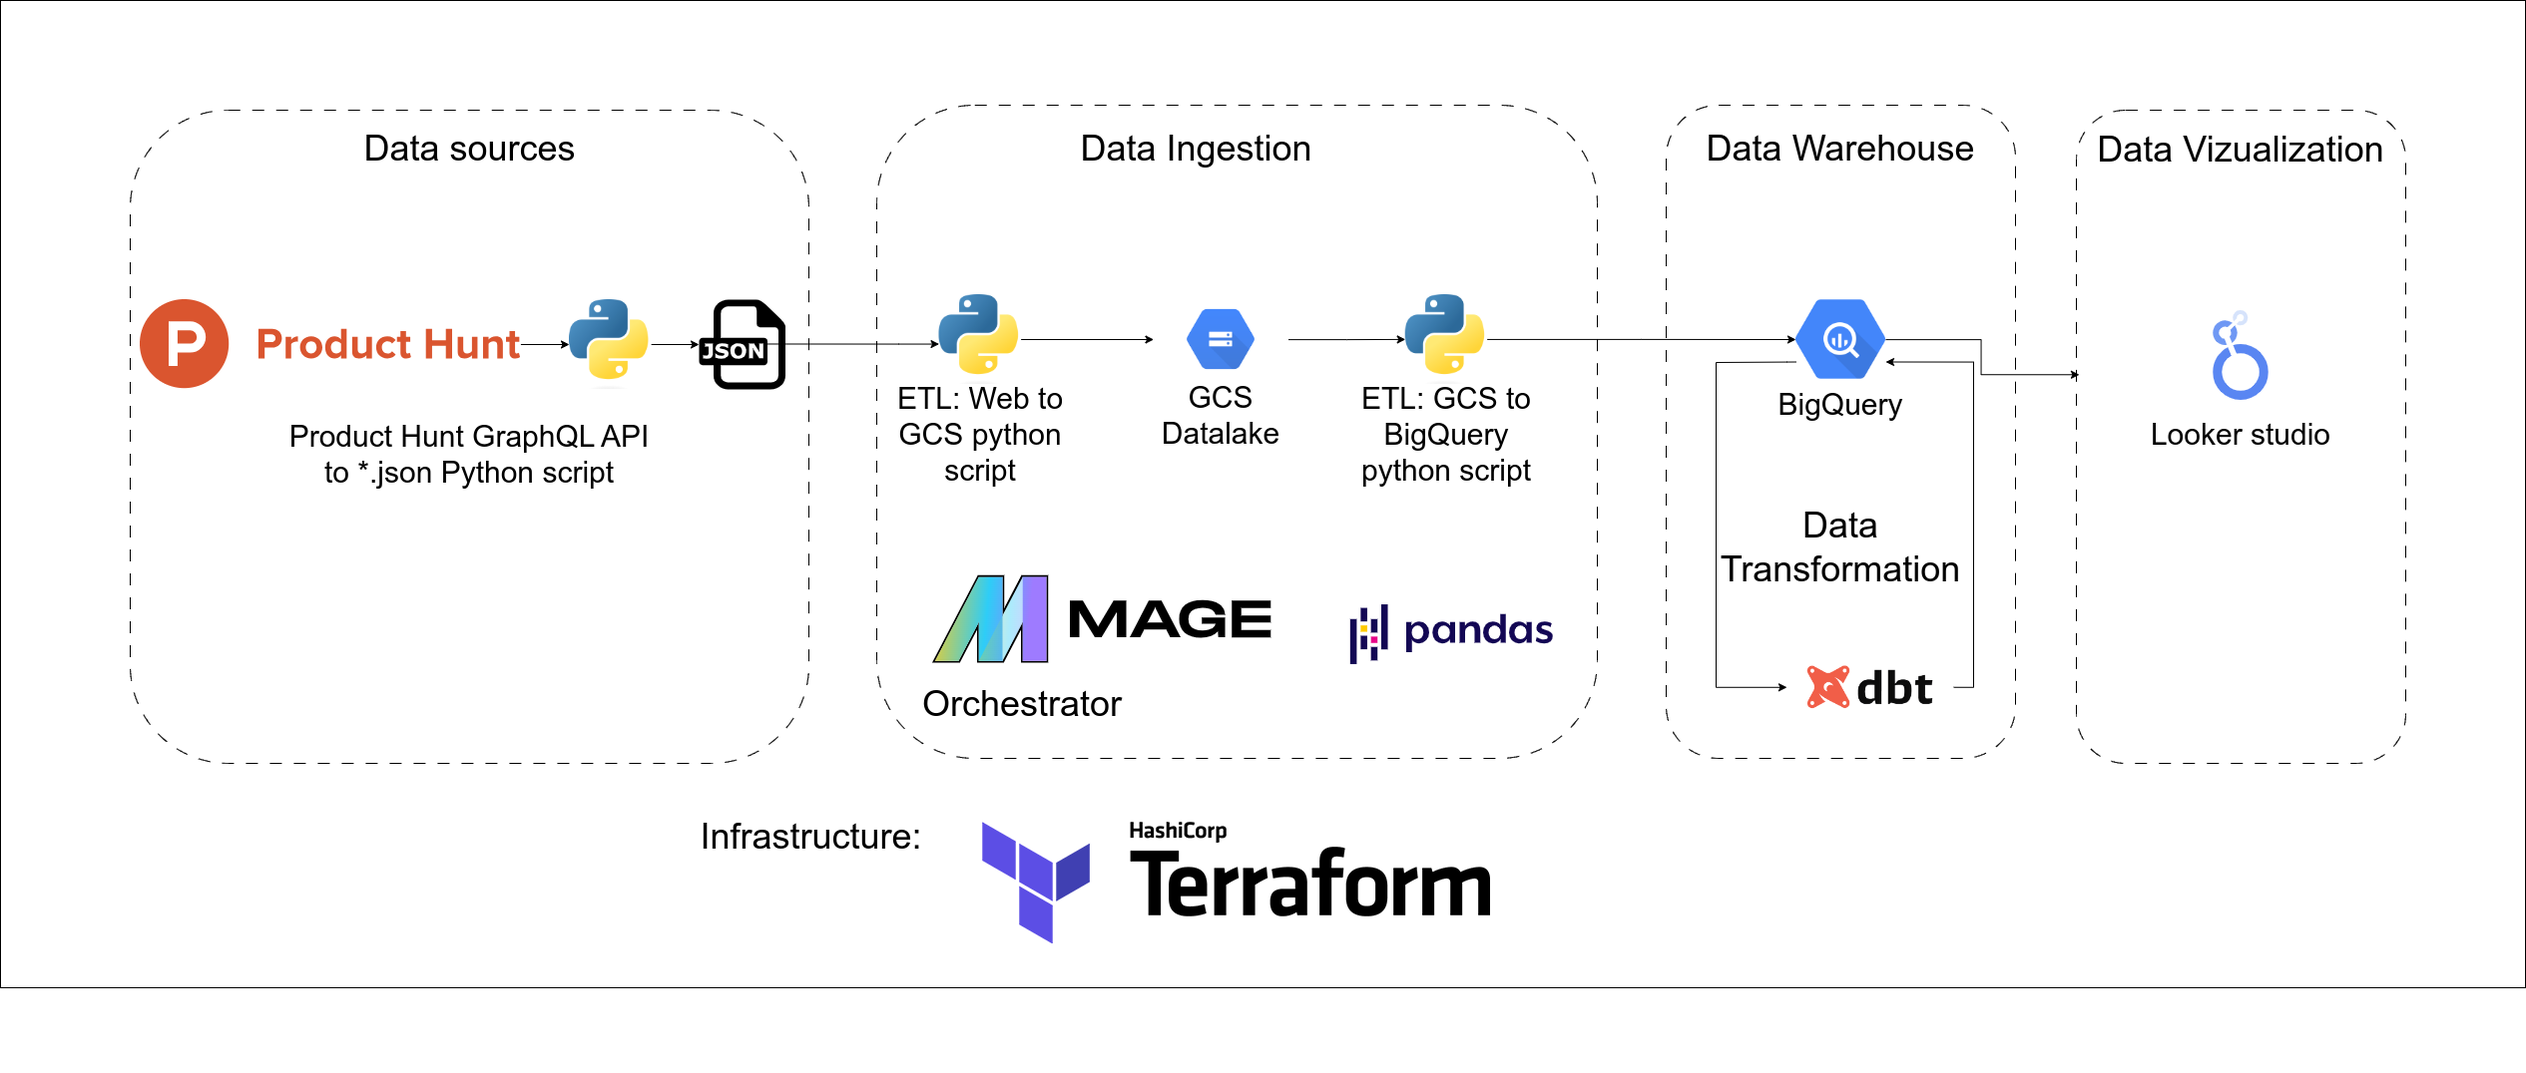
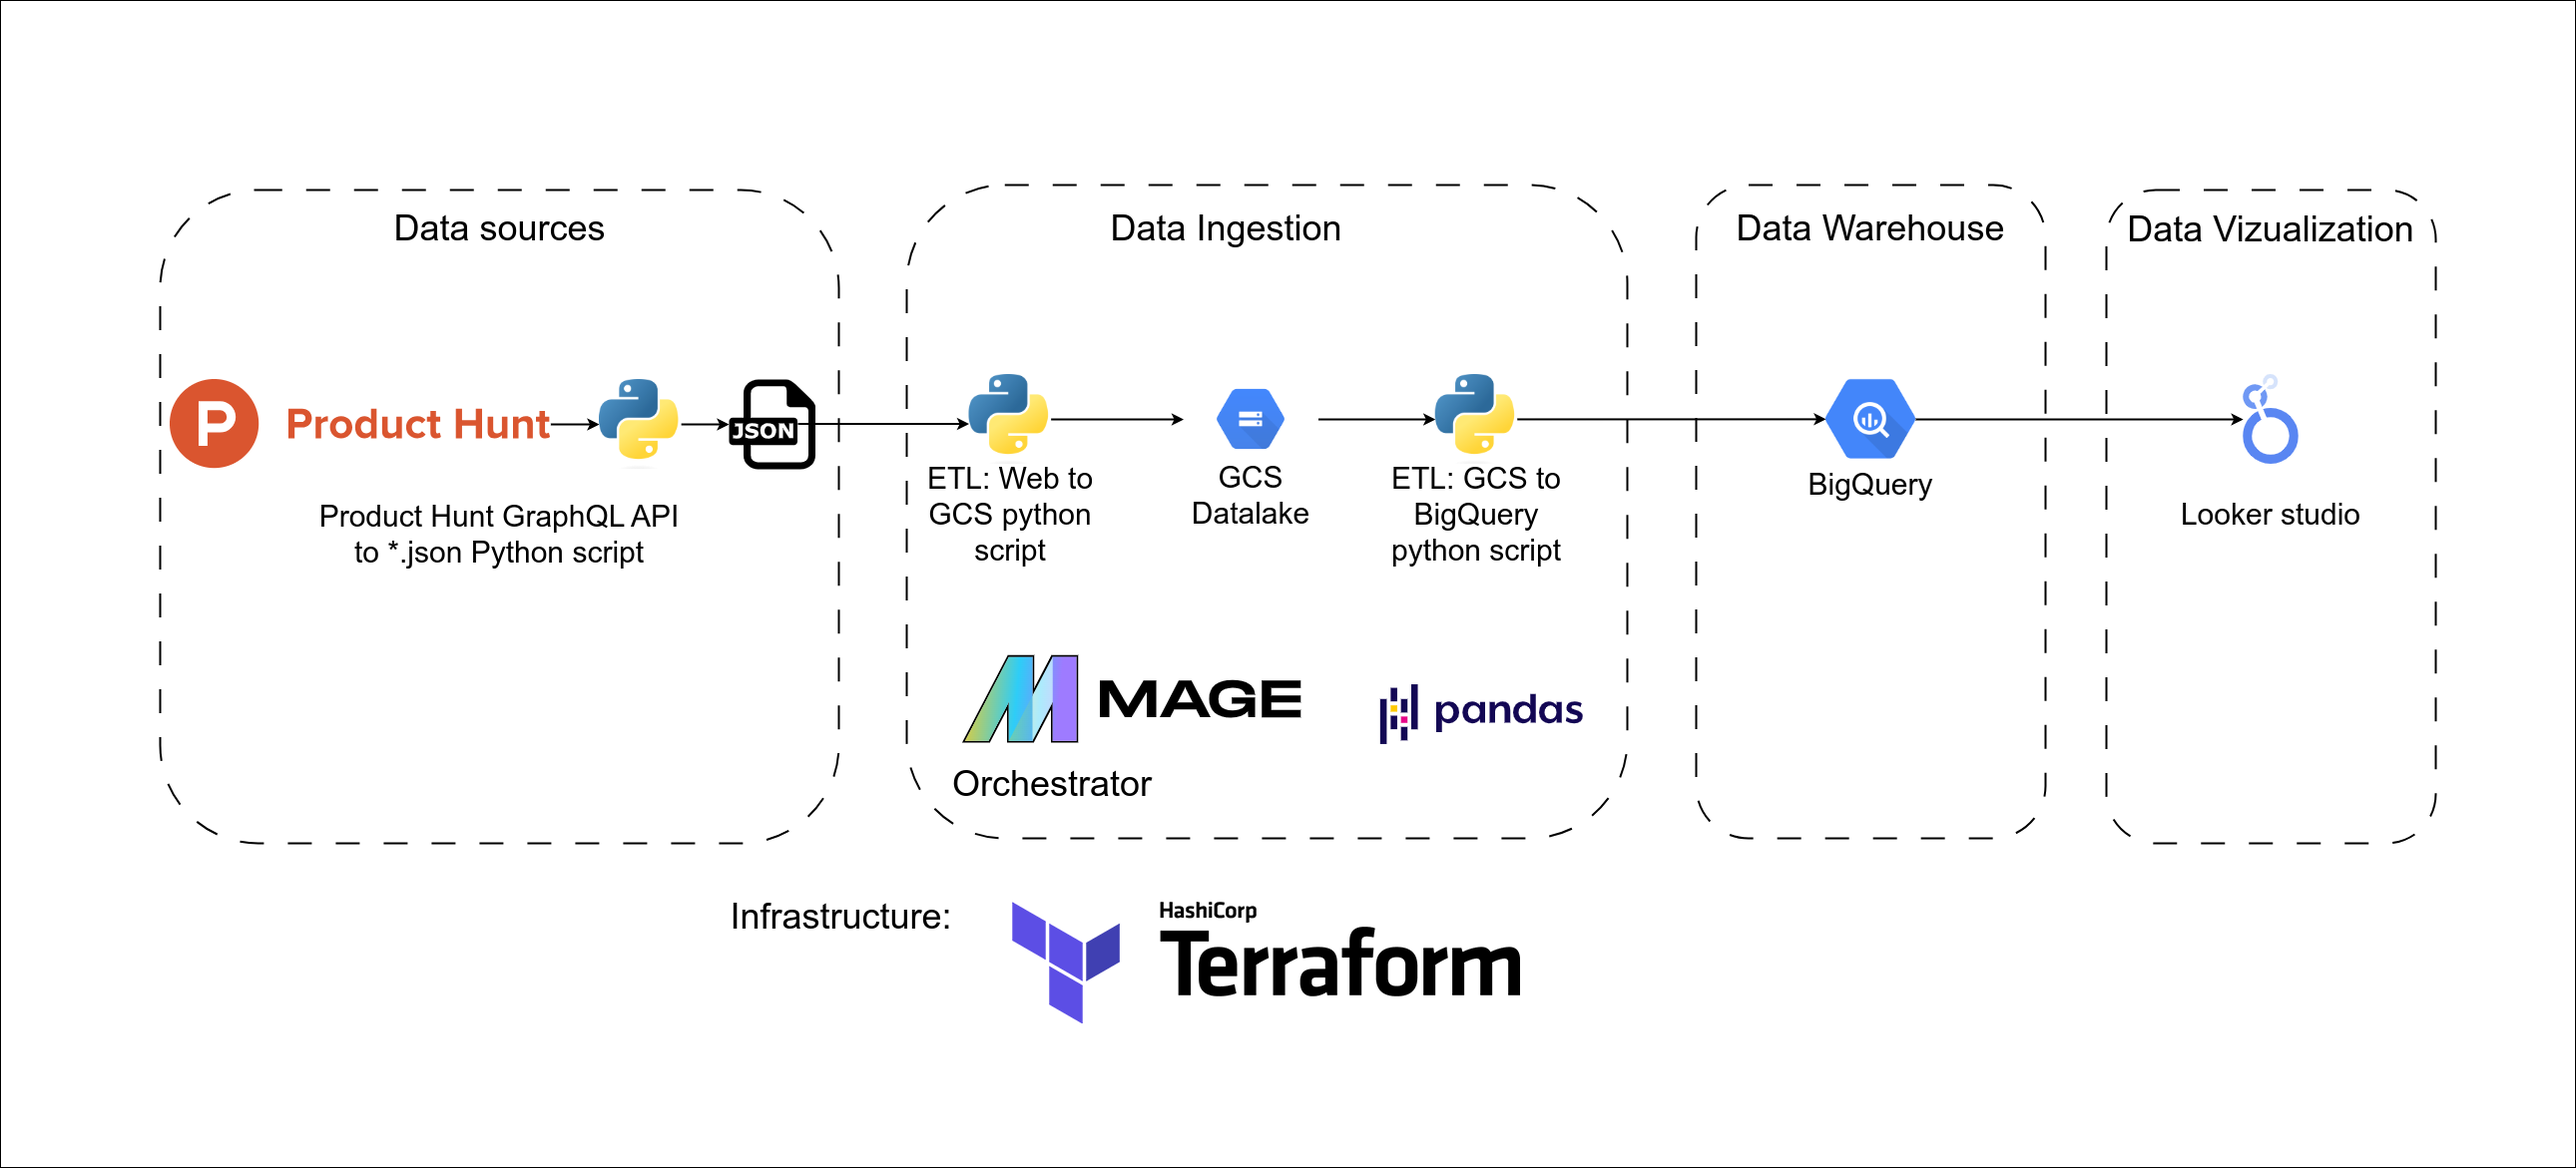
README: edit

diff --git a/README.md b/README.md
@@ -1,15 +1,52 @@
-# Product Hunt Analysis - Data Engineering Capstone Project
+# ProductHunt Insights: End-to-End Data Engineering Capstone Project
+***
 
-_This is my final DE project for the [Data Engineering Zoomcamp 2024](https://github.com/DataTalksClub/data-engineering-zoomcamp) by [DataTalks.Club](https://datatalks.club/)_
+![pipeline.png](images/pipeline.png)
 
-## Objective
-Developing an end-to-end pipeline to perform advanced analytics, to handle the ingestion, processing and data analysis, with the purpose of generating useful dashboard with daily data updates from the most popular startups launch platform producthunt.com.
+This project, developed for the [Data Engineering Zoomcamp 2024](https://github.com/DataTalksClub/data-engineering-zoomcamp) by [DataTalks.Club](https://datatalks.club/), involves building an end-to-end data pipeline to extract, transform, and visualize ProductHunt data. The goal is to enable advanced analytics on startup launches, providing insights on trends, competitors, and optimal launch times. The pipeline includes data ingestion from the ProductHunt API, storage in Google Cloud Storage, processing with BigQuery, transformations via dbt, and visualization using Looker Studio.
 
-## Problem statement
-  If you are interested in launching a startup, you need to know competitors, current trends, and some ideas. Also, you need to know the best day of the week and the best hours to post your project.
+***
+## Technologies Used
+- **Infrastructure as Code (IaC):** Terraform
+- **Workflow Orchestration:** Mage
+- **Data Lake:** Google Cloud Storage (GCS)
+- **Data Warehouse (DWH):** BigQuery
+- **Transformations:** Pandas
+- **Dashboard:** Google Data Studio / Looker Studio
 
-ProductHunt has an archive section of projects posted in the past and some filters, but they are really simple. I hope my project will help you to launch a startup.
-Analysis information about last launched startups, most popular topics, correlation launches date and their activities on platform. This data needs to be automatically stored and processed in a way that analysts can quickly analyze and build out reports and dashboards.
+***
+## Data Pipeline Overview
+### Pipeline 1
+1. **Data Extraction:** Download historical data (2014-2024) using the ProductHunt API.
+2. **Transformation:** Cast data types and normalize data.
+3. **Loading:** Upload transformed data to BigQuery.
+
+![img.png](images/pipeline-1.png)
+
+### Pipeline 2
+1. **Daily Updates:** Fetch previous day's data from ProductHunt API.
+2. **Transformation:** Process and normalize data.
+3. **Loading:** Append daily data to BigQuery.
+
+![img.png](images/pipeline-2.png)
+
+***
+## Dashboard
+- Visualizes yearly and daily data.
+- Analyzes best times and days for launching startups.
+- Provides insights into popular topics and trends.
+
+[Check out dashboard here](https://lookerstudio.google.com/reporting/b8205408-d9c1-45bf-a45d-14bcfa77f793)
+
+![dashboard_2_2.png](images%2Fdashboard_2-2.png)
+![dashboard_3_3.png](images%2Fdashboard_3.png)
+
+## Instructions to Replicate the Project
+1. [**Install Terraform:**](#1-install-and-setting-up-terraform) Setup Terraform for infrastructure management.
+2. [**Install gcloud CLI:**](#2-install-and-setting-up-the-gcloud-cli) Configure Google Cloud CLI for managing services.
+3. [**Setup Service Account:**](#3-setup-permissions-for-service-account-) Create and configure service accounts and permissions.
+4. [**Creating Secrets**](#4-setting-up-terraform-and-creating-secret) Creating Secret
+5. [**Deploy Infrastructure:**](#5-deploying-) Use Terraform scripts to deploy resources.
 
 ## Dataset
 I parsed previous data from archives using producthunt API: https://api.producthunt.com/v2/docs
@@ -31,50 +68,11 @@ gsutil -m cp -r 2015 2016 2017 2018 2019 2020 2021 2022 2023 2024  gs://bucket_n
 
 ![gcp_bucket.png](images%2Fgcp_bucket.png)
 
-## Technologies
-- Infrastructure as code (IaC): Terraform 
-- Workflow orchestration: Mage
-- Data Lake: Google Cloud Storage (GCS)
-- DWH: BigQuery 
-- Transformations: dbt 
-- Dashboard: Google Data Studio / Looker Studio
-
-## Data pipeline
-![pipeline.png](images/pipeline.png)
-
-### Pipeline 1
-- The 1st pipeline downloading previous historical data from 2014 to 2024. These data I downloaded using producthunt API on my local machine.
-- Then I uploaded these data to GCP using CLI tool gsutil. 
-- And also this pipeline doing some data transformation: explicit casting of data types, data normalization.
-- And finally I upload data to BigQuery
-
-![img.png](images/pipeline-1.png)
-
-### Pipeline 2
-- The 2nd pipeline running everyday and making API request for downloading data for previous day. I also use there producthunt API.
-- And also this pipeline doing some data transformation: explicit casting of data types, data normalization.
-- And finally I upload data for previous day to BigQuery.
-
-![img.png](images/pipeline-2.png)
-
-## Dashboard
-[Check out dashboard here](https://lookerstudio.google.com/reporting/b8205408-d9c1-45bf-a45d-14bcfa77f793)
-
-#### The 1st view about looking at data in section by year:
-
-![dashboard_1.png](images%2Fdashboard_1.png)
-
-#### The 2nd view about looking at data in section by day:
-![dashboard_2.png](images%2Fdashboard_2.png)
-
-#### The 3rd view allowing you to check which days of the week or hours of the day are the best for launching
-![dashboard_3.png](images%2Fdashboard_3.png)
-
 ## Instructions on how to replicate the project
 
-### 1. Setting up Google Cloud Platform account
+### Setting up Google Cloud Platform account
 In this section, I'll cover deploying Mage using Terraform and Google Cloud.
-#### 1.2 Install and Setting up Terraform
+#### 1. Install and Setting up Terraform
 Ensure that your system is up to date and you have installed the gnupg, software-properties-common, and curl packages installed. You will use these packages to verify HashiCorp's GPG signature and install HashiCorp's Debian package repository.
 ```bash
 sudo apt-get update && sudo apt-get install -y gnupg software-properties-common
@@ -116,7 +114,7 @@ Verify that the installation worked by opening a new terminal session and listin
 terraform -help
 ```
 
-#### 1.2 Install and Setting up the gcloud CLI
+#### 2 Install and Setting up the gcloud CLI
 Import the Google Cloud public key.
 ```bash
 curl https://packages.cloud.google.com/apt/doc/apt-key.gpg | sudo gpg --dearmor -o /usr/share/keyrings/cloud.google.gpg
@@ -136,7 +134,7 @@ Run gcloud init to get started
 ```bash
 gcloud init
 ```
-#### 1.3 Setup permissions for Service Account:
+#### 3 Setup permissions for Service Account:
 
 ![img.png](images/img.png)
 
@@ -153,7 +151,7 @@ export GOOGLE_APPLICATION_CREDENTIALS=~/.gc/cred_names.json
 gcloud auth activate-service-account --key-file $GOOGLE_APPLICATION_CREDENTIALS
 ```
 
-#### 1.4 Setting up terraform and creating Secret 
+#### 4. Setting up terraform and creating Secret 
 
 Before running any Terraform commands, change the default value of the variable named project_id in the ./terraform/variables.tf file.
 
@@ -181,15 +179,15 @@ Mount secrets from Google Secret Manager through the Google Console UI.
 4. Under the field labeled Select a role, enter the value Secret Manager Secret Accessor.
 5. Click the button SAVE.
 
-#### 1.5 Deploying:
+#### 5. Deploying:
 
-1. Change directory into scripts folder:
+Change directory into scripts folder:
 
 ```bash
 cd terraform
 ```
 
-2. Initialize Terraform:
+Initialize Terraform:
 
 ```bash
 terraform init
@@ -223,7 +221,7 @@ rerun this command to reinitialize your working directory. If you forget, other
 commands will detect it and remind you to do so if necessary.
 ```
 
-3. Deploy:
+Deploy:
 
 ```bash
 terraform apply
@@ -237,3 +235,10 @@ Apply complete! Resources: 7 added, 1 changed, 0 destroyed.
 ```
 
 After a few minutes, open a browser the link you recieved above
+
+
+## TL;DR
+
+This project builds a comprehensive data pipeline to analyze ProductHunt data, leveraging Google Cloud, BigQuery, and Looker Studio. It automates data extraction, transformation, and visualization to provide actionable insights on startup launches. The setup involves configuring GCP, Terraform, and service accounts, making it easy to replicate the project.
+
+For more details, visit the [GitHub repository](https://github.com/kirill505/de-zoomcamp-project).
